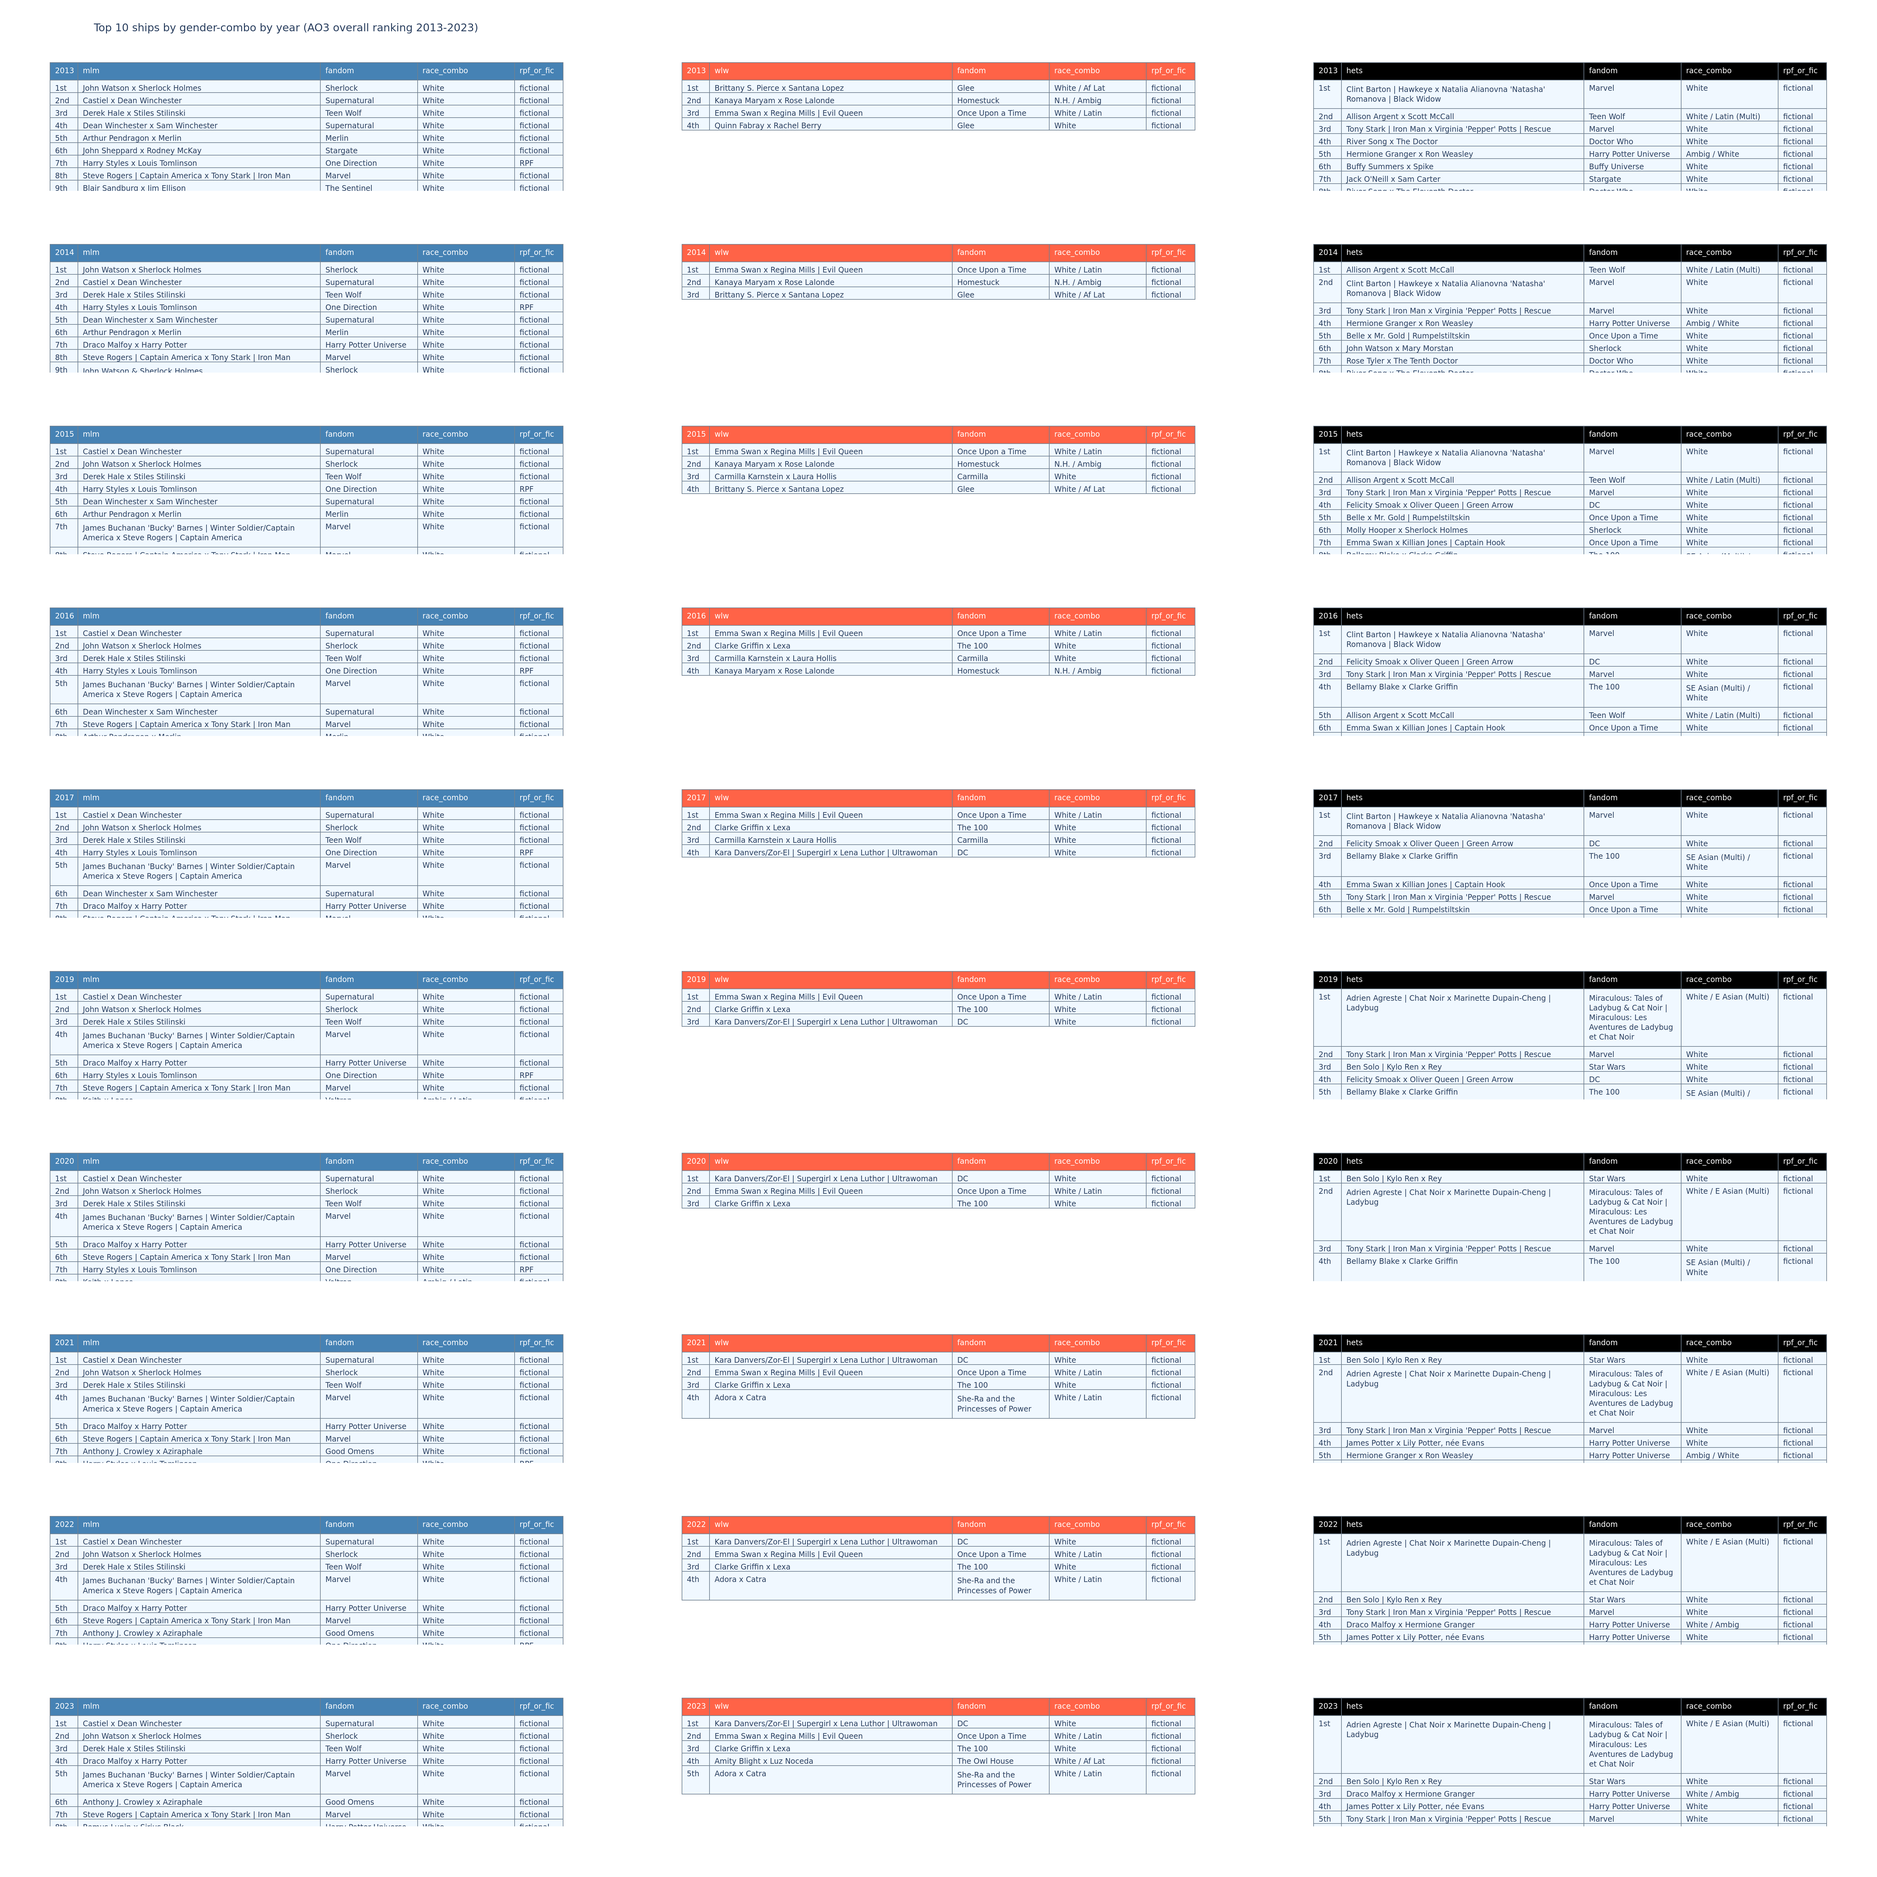
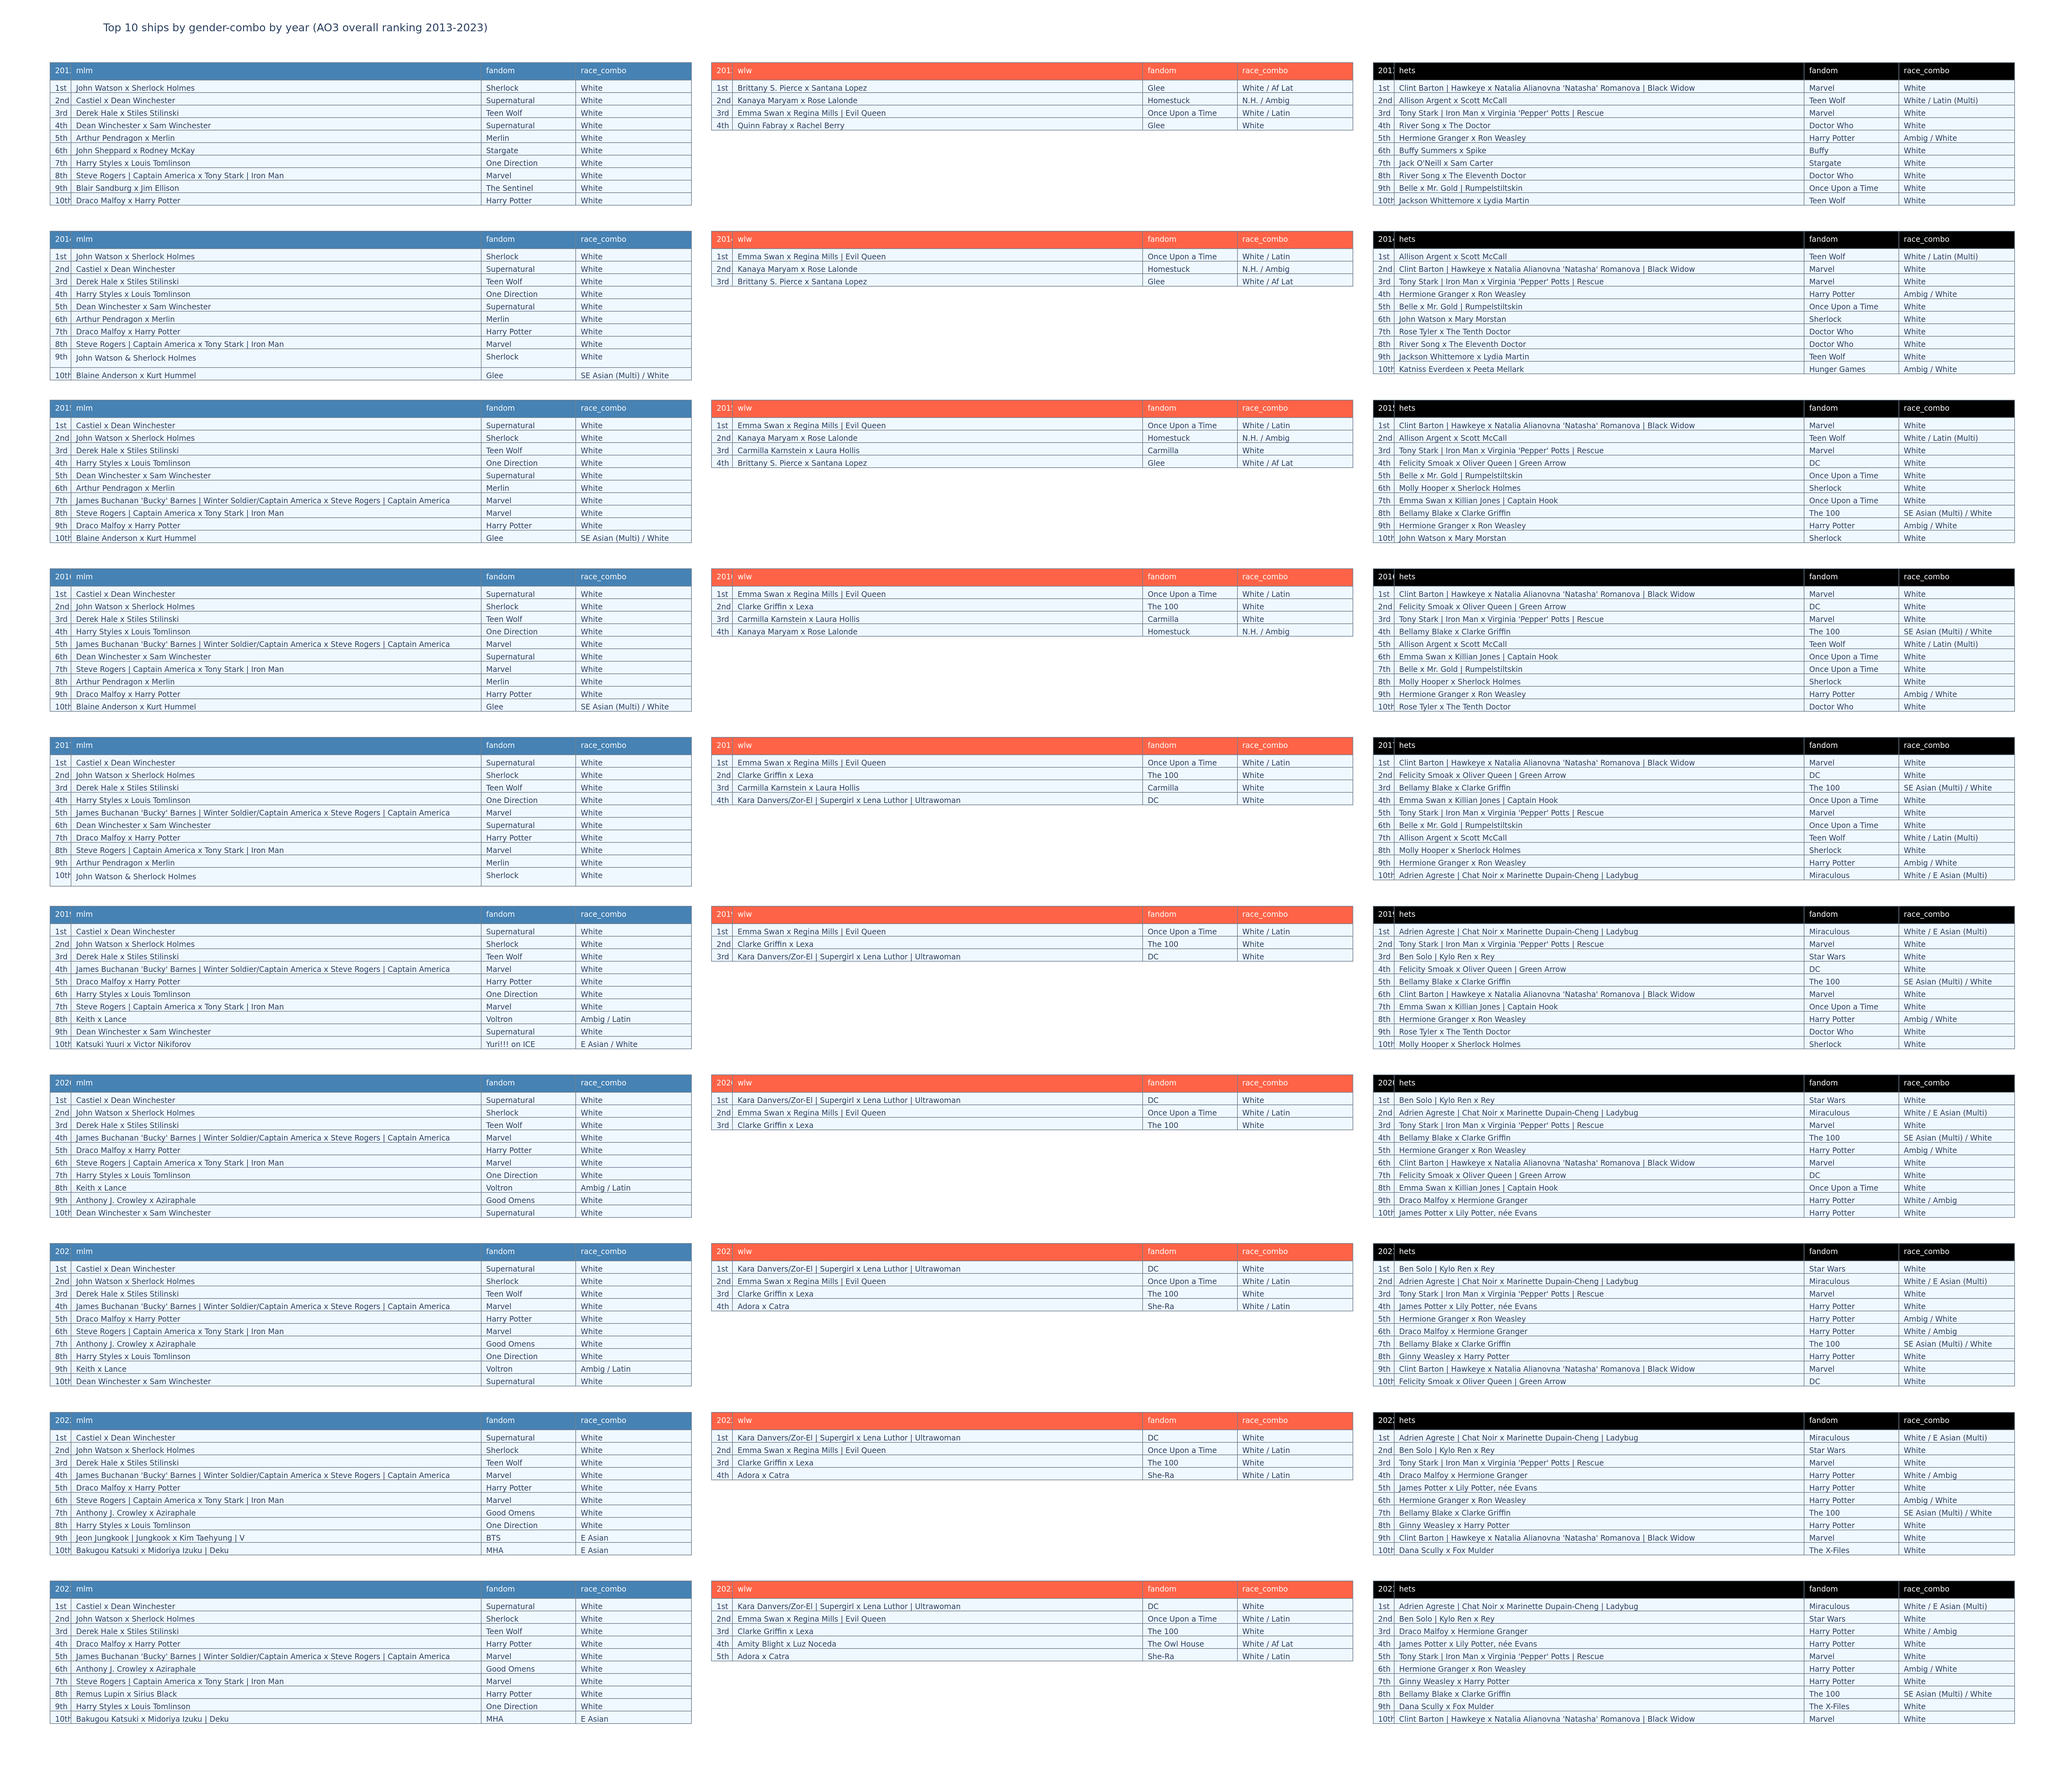
visualise top 10 ships by gender combo

Changed region(s): [[0.0, 0.0312, 0.9973, 0.9681]]

diff --git a/visualisation/diagram_code/visualise_tables.py b/visualisation/diagram_code/visualise_tables.py
@@ -492,7 +492,7 @@ def visualise_single_table(input_df:pd.DataFrame, ranking:str, data_case:str=Non
 # make columns of table plots with years number of rows
 def visualise_column_tables(input_dict:dict, data_case:str, ranking:str):
     """
-    takes a dict
+    takes a dict with year keys
 
     returns multi-plot figure with columns of tables for each category and rows for each year
     visualising the top 3 ships of each category each year
@@ -504,11 +504,13 @@ def visualise_column_tables(input_dict:dict, data_case:str, ranking:str):
     ranking = ranking.lower()
     suffix = lbls.suffixes[ranking]
 
+    # setting column num, header colours, ship types, title, column width
     if data_case == "non_white_ships":
         num_of_columns = 4
         colours = colour_palettes.non_white_colours
         ship_types = lbls.non_white_categories
         title = f"Top 3 ships by race-combo type by year{suffix}"
+        column_width = [0.35, 3.05, 1.1, 1.5]
     elif data_case == "gender_combos":
         num_of_columns = 3
         colours = [
@@ -518,21 +520,17 @@ def visualise_column_tables(input_dict:dict, data_case:str, ranking:str):
         ]
         ship_types = ["mlm", "wlw", "hets"]
         title = f"Top 10 ships by gender-combo by year{suffix}"
+        column_width = [0.2, 3.9, 0.9, 1.1]
 
+    # making subplots
     num_of_years = len(input_dict.keys())
     fig = make_subplots_by_year(num_of_years, num_of_columns=num_of_columns, by_years=True)
     
+    # setting colours
     if ranking == "femslash":
         line_colour = colour_palettes.sapphic_table["lines"] # colour of lines
-        #body_fill_colour = colour_palettes.sapphic_table["body_2"] # colour of remaining rows
-        if data_case == "non_white_ships":
-            column_width = [0.35, 3.05, 1.1, 1.5]
     elif ranking == "overall":
         line_colour = colour_palettes.blue_table["lines"]
-        if data_case == "non_white_ships":
-            column_width = [0.35, 3.05, 1.1, 1.5]
-        elif data_case == "gender_combos":
-            column_width = [0.4, 3.5, 1.4, 1.4 ,0.7]
     body_fill_colour = colour_palettes.bg_colours[ranking][0]
 
     row_counter = 1
@@ -540,30 +538,32 @@ def visualise_column_tables(input_dict:dict, data_case:str, ranking:str):
     rank_strings = ranks.top_10_list
 
     for year in input_dict:
+        # making year item
         if data_case == "non_white_ships":
             year_item = input_dict[year].copy() # df
 
             year_item["fandom"] = clean_fandoms(year_item["fandom"]) # cleaning/shortening fandoms
             year_item.pop("year")
             year_item.pop("rank_no")
-
         elif data_case == "gender_combos":
             year_item = input_dict[year] # dict
-        # print(year_df) # ['year', 'ship', 'fandom', 'rank_no', 'race_combo', 'ship_type']
 
-        for ship_type in ship_types:
+        for ship_type in ship_types: # iterating through ship types
+            # making df per type
             if data_case == "non_white_ships":
                 type_df = year_item.where(
                     year_item["ship_type"] == ship_type
                 ).dropna()
 
                 type_df.pop("ship_type")
-            
             elif data_case == "gender_combos":
                 type_df = year_item[ship_type]
+                type_df["fandom"] = clean_fandoms(type_df["fandom"]) # cleaning/shortening fandoms
                 type_df.pop("year")
                 type_df.pop("gender_combo")
+                type_df.pop("rpf_or_fic")
 
+            # adding ranks
             length = len(type_df)
             type_df["rank"] = rank_strings[:length]
             new_column_order = list(type_df.columns[-1:]) + list(type_df.columns[:-1])
@@ -573,6 +573,7 @@ def visualise_column_tables(input_dict:dict, data_case:str, ranking:str):
                 columns={"ship":ship_type}
             )
 
+            # setting text & fill colour for headers
             if col_counter in [1,2] and data_case == "non_white_ships":
                 header_font = "black"
             else: header_font = "white"
@@ -606,6 +607,7 @@ def visualise_column_tables(input_dict:dict, data_case:str, ranking:str):
         row_counter += 1
         col_counter = 1
 
+    # adding title
     fig.update_layout(
         title=title
     )

diff --git a/visualisation/ao3_overall_rankings_2013_2023/vis_overall_ranking_run_code.py b/visualisation/ao3_overall_rankings_2013_2023/vis_overall_ranking_run_code.py
@@ -156,8 +156,8 @@ top_ships_by_gender_combo = make_by_gender_combo(overall_ship_info_df, "top_ship
 top_ships_by_gender_combo_fig = visualise_column_tables(top_ships_by_gender_combo, "gender_combos", "overall")
 top_ships_by_gender_combo_fig.write_image(
     "visualisation/ao3_overall_rankings_2013_2023/ao3_overall_rankings_charts/top_overall_ships_by_gender_combo_2013_2023.png", 
-    width=3000, 
-    height=3000, 
+    width=3300, 
+    height=2850, 
     scale=2
 )
 
